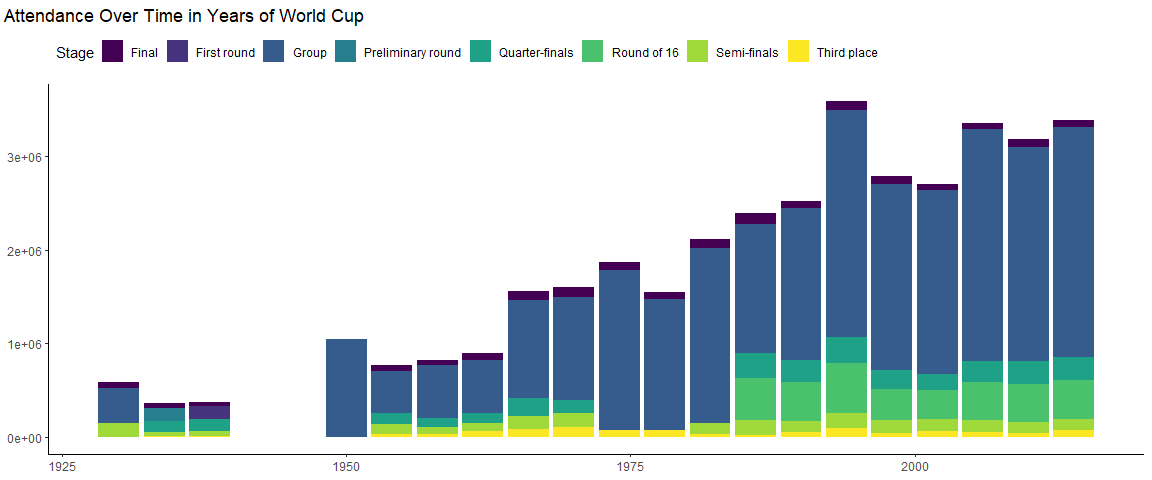
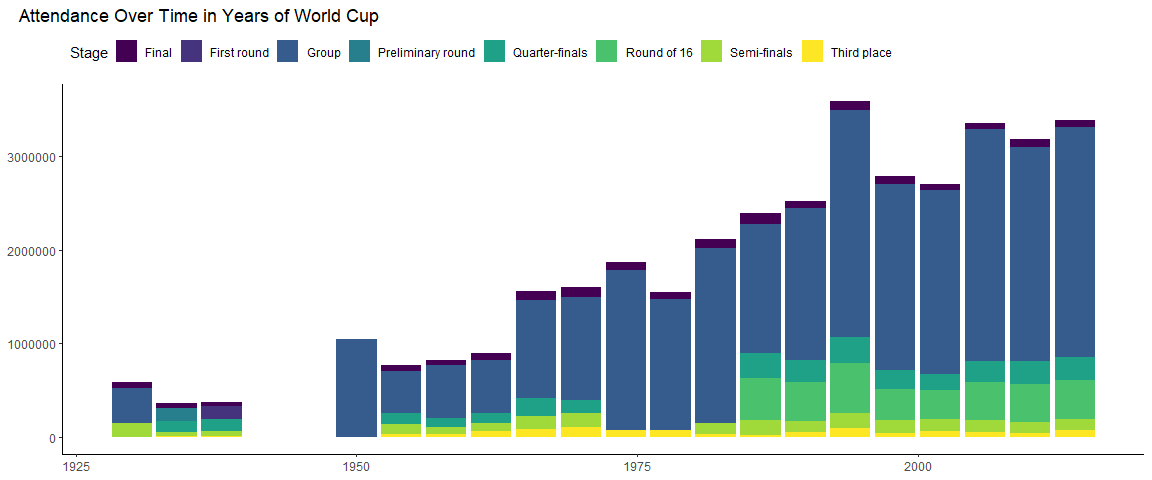
revised project 1

diff --git a/project-01/Nguyen_project_01.html b/project-01/Nguyen_project_01.html
@@ -1734,7 +1734,8 @@ not theirs and both sides of the field should be equal.</p>
[1 lines of base64/hex data omitted]
 <p>Most of the finals ended normally without needing extra time or
 penalties to determine a winner.</p>
-<pre class="r"><code>wc %&gt;% 
+<pre class="r"><code>options(scipen = 999) # remove scientific notation from y axis
+wc %&gt;% 
   mutate(Stage = case_when(str_detect(wc$Stage, &quot;Group&quot;) ~ &quot;Group&quot;, # merge all the different groups into just one
                         str_detect(wc$Stage, &quot;third&quot;) ~ &quot;Third place&quot;, # third place match was written in multiple ways
                         T ~ as.character(wc$Stage))
@@ -1748,12 +1749,13 @@ penalties to determine a winner.</p>
           legend.position = &quot;top&quot;, legend.justification = &quot;left&quot;) +
     guides(fill=guide_legend(nrow = 1, byrow = T))</code></pre>
 <pre><code>## Warning: Removed 1 rows containing missing values (`position_stack()`).</code></pre>
[1 lines of base64/hex data omitted]
-<p>More people watched the World Cup over time. The gap could have been
-because of World War 2, 1950 seems to be missing non group data and the
-World Cups before it in general seems to be missing some data. The group
-stage having the most attendance makes sense as it has the most matches
-being played in it.</p>
[1 lines of base64/hex data omitted]
+<p>More people watched the World Cup over time. The gap in the chart was
+because of World War 2 (<a href="https://theculturetrip.com/europe/germany/articles/why-wasnt-there-a-world-cup-in-1942-or-1946/" class="uri">https://theculturetrip.com/europe/germany/articles/why-wasnt-there-a-world-cup-in-1942-or-1946/</a>),
+1950 seems to be missing non group data and the World Cups before it in
+general seems to be missing some data. The group stage having the most
+attendance makes sense as it has the most matches being played in
+it.</p>
 <hr />
 </div>
 <div id="report" class="section level1">
@@ -1782,30 +1784,31 @@ that variable I made into factor to make sure it worked properly in the
 graph. To make the graph I used geom_bar with the side variable. I made
 a number of changes to the way it looked. By making a descriptive title,
 I was able to remove the x axis completely and the title for the y axis.
-The title had the sides colored using the ggtext package to match the
-fill of the bars in the graph. I choose to this as it is better to make
-graphs simpler and I wanted to apply what I learned from the discussion
-video regarding the title. With this graph, I found out that the home
-side was usually the one that won, this is unusual as both sides of the
-field should be equal and the home side usually does not have the home
-team for the country.</p>
+The title had the sides colored using the <code>ggtext</code> package to
+match the fill of the bars in the graph. I choose to this as it is
+better to make graphs simpler and I wanted to apply what I learned from
+the discussion video regarding the title. With this graph, I found out
+that the home side was usually the one that won, this is unusual as both
+sides of the field should be equal and the home side usually does not
+have the home team for the country.</p>
 <p>Preparing for the win conditions of the final match was relatively
 simple, but it was annoying that it was necessary. The final matches can
 have a win with normal time, extra time, or penalties. If a match ended
 in normal time, the win condition was NA, so I changed it to Normal, so
 it would look better for the graph. For matches that ended in extra time
 or went to a penalty shootout, the win condition would say the winning
-countries name in the wind condition, so I had to use str_detect with
-ifelse to make it so if the win condition had extra time or penalty,
-then the win condition would be set to that. A lollipop graph was made
-for this. I grouped by win condition and counted the rows for each win
-condition as n then passed it to ggplot to use geom_pointrange with the
-x as the win condition reordered from greatest to least and y as
-n. Similarly to the previous graph, I removed the x axis and the title
-for the y axis, as I believe my title is descriptive enough. And I
-removed the legend title for this graph. Looking at the graph, I saw
-that most final matches ended normally without extra time or penalties,
-and a penalty shootout was the most uncommon win condition.</p>
+countries name in the wind condition, so I had to use
+<code>str_detect</code> with <code>ifelse</code> to make it so if the
+win condition had extra time or penalty, then the win condition would be
+set to that. A lollipop graph was made for this. I grouped by win
+condition and counted the rows for each win condition as n then passed
+it to ggplot to use <code>geom_pointrange</code> with the x as the win
+condition reordered from greatest to least and y as n. Similarly to the
+previous graph, I removed the x axis and the title for the y axis, as I
+believe my title is descriptive enough. And I removed the legend title
+for this graph. Looking at the graph, I saw that most final matches
+ended normally without extra time or penalties, and a penalty shootout
+was the most uncommon win condition.</p>
 <p>My last graph for comparing attendance over time was originally
 intended to be a scatterplot, but after coloring the points by stage, it
 was extremely complicated and hard to read. So, I had to switch to a bar
@@ -1813,24 +1816,24 @@ graph. Before making the graph, I merged all the different groups into
 just one group for the graph, and fixed the third place match being
 called different ways. My graph has the x as year, y as attendance, and
 the fill as stage. This graph has the x and y axis titles removes to
-helped simplify it and the fig.width of it was increased to help make it
-more readable. The graph shows an increase in attendance over time and
-the group stage having the highest attendance. This makes sense as there
-is more people and the group stage has the most matches. There is a gap
-in the data that could be due to World War 2, and some years are missing
-some stages.</p>
+helped simplify it and the <code>fig.width</code> of it was increased to
+help make it more readable. The graph shows an increase in attendance
+over time and the group stage having the highest attendance. This makes
+sense as there is more people and the group stage has the most matches.
+There is a gap in the data that was due to World War 2, and some years
+are missing some stages.</p>
 <p>Overall, I tried to make simple data visualizations as they are
 easier to understand and avoided pie charts. I focused mainly on the
 layout of my data visualizations and other than for my first graph, I
-used the viridis colors through scale_color_viridis_d and
-scale_fill_viridis_d, they help make the different categories in a
-variable distinct, which is important as they are not ordered. When a
-unodered categorical variable was graphed, I arranged them in either
-ascending or descending order. My titles were always in the top left of
-the graph as that is where people start reading for English, and I
-removed the axis and legend titles when I believed they were
-unnecessary. All of the design choices I made, I think help make my data
-visualizations more understandable.</p>
+used the viridis colors through <code>scale_color_viridis_d</code> and
+<code>scale_fill_viridis_d</code>, they help make the different
+categories in a variable distinct, which is important as they are not
+ordered. When a unodered categorical variable was graphed, I arranged
+them in either ascending or descending order. My titles were always in
+the top left of the graph as that is where people start reading for
+English, and I removed the axis and legend titles when I believed they
+were unnecessary. All of the design choices I made, I think help make my
+data visualizations more understandable.</p>
 </div>
 
 

diff --git a/project-01/Nguyen_project_01.md b/project-01/Nguyen_project_01.md
@@ -342,6 +342,7 @@ Most of the finals ended normally without needing extra time or penalties to det
 
 
 ```r
+options(scipen = 999) # remove scientific notation from y axis
 wc %>% 
   mutate(Stage = case_when(str_detect(wc$Stage, "Group") ~ "Group", # merge all the different groups into just one
                         str_detect(wc$Stage, "third") ~ "Third place", # third place match was written in multiple ways
@@ -363,7 +364,7 @@ wc %>%
 
 ![](Nguyen_project_01_files/figure-html/unnamed-chunk-17-1.png)<!-- -->
 
-More people watched the World Cup over time. The gap could have been because of World War 2, 1950 seems to be missing non group data and the World Cups before it in general seems to be missing some data. The group stage having the most attendance makes sense as it has the most matches being played in it.
+More people watched the World Cup over time. The gap in the chart was because of World War 2 (https://theculturetrip.com/europe/germany/articles/why-wasnt-there-a-world-cup-in-1942-or-1946/), 1950 seems to be missing non group data and the World Cups before it in general seems to be missing some data. The group stage having the most attendance makes sense as it has the most matches being played in it.
 
 ------------------------------------------------------------------------
 
@@ -371,10 +372,10 @@ More people watched the World Cup over time. The gap could have been because of 
 
 After looking through the dataset choices, I choose to do the World Cup Matches as I like to watch them. I originally intended to create a bar, lollipop and scatterplot as my three data visualizations, but due to the way my target variables looked, I had to switch from a scatterplot to another bar graph. First, before I worked on making the data visualizations, I checked the data for problems and what I wanted to create my graphs on. I choose to do a graph on if the home or away team won for the final match, a graph for how the victor of the final match was determined, and how the attendance of the matches changed over time; I used the finals as I think it is more interesting, and there are no draws. To do this, I had to remove the spaces in variable names for easier use, remove a large number of duplicate rows, remove a row that had NA for all its values, changed the stages variable to factors, and I created a subset of just the final matches.
 
-For my home vs away graph, I made a new variable called side to hold the side that won and calculated it by subtracting the away goals from the home goals. If the goals were above 0 then the home team won and if it is less than 0, the away team won. This worked for all but two matches, where the victor was determined through penalties, so I manually added the winner for those matches. After that, I converted that variable I made into factor to make sure it worked properly in the graph. To make the graph I used geom_bar with the side variable. I made a number of changes to the way it looked. By making a descriptive title, I was able to remove the x axis completely and the title for the y axis. The title had the sides colored using the ggtext package to match the fill of the bars in the graph. I choose to this as it is better to make graphs simpler and I wanted to apply what I learned from the discussion video regarding the title. With this graph, I found out that the home side was usually the one that won, this is unusual as both sides of the field should be equal and the home side usually does not have the home team for the country.
+For my home vs away graph, I made a new variable called side to hold the side that won and calculated it by subtracting the away goals from the home goals. If the goals were above 0 then the home team won and if it is less than 0, the away team won. This worked for all but two matches, where the victor was determined through penalties, so I manually added the winner for those matches. After that, I converted that variable I made into factor to make sure it worked properly in the graph. To make the graph I used geom_bar with the side variable. I made a number of changes to the way it looked. By making a descriptive title, I was able to remove the x axis completely and the title for the y axis. The title had the sides colored using the `ggtext` package to match the fill of the bars in the graph. I choose to this as it is better to make graphs simpler and I wanted to apply what I learned from the discussion video regarding the title. With this graph, I found out that the home side was usually the one that won, this is unusual as both sides of the field should be equal and the home side usually does not have the home team for the country.
 
-Preparing for the win conditions of the final match was relatively simple, but it was annoying that it was necessary. The final matches can have a win with normal time, extra time, or penalties. If a match ended in normal time, the win condition was NA, so I changed it to Normal, so it would look better for the graph. For matches that ended in extra time or went to a penalty shootout, the win condition would say the winning countries name in the wind condition, so I had to use str_detect with ifelse to make it so if the win condition had extra time or penalty, then the win condition would be set to that. A lollipop graph was made for this. I grouped by win condition and counted the rows for each win condition as n then passed it to ggplot to use geom_pointrange with the x as the win condition reordered from greatest to least and y as n. Similarly to the previous graph, I removed the x axis and the title for the y axis, as I believe my title is descriptive enough. And I removed the legend title for this graph. Looking at the graph, I saw that most final matches ended normally without extra time or penalties, and a penalty shootout was the most uncommon win condition.
+Preparing for the win conditions of the final match was relatively simple, but it was annoying that it was necessary. The final matches can have a win with normal time, extra time, or penalties. If a match ended in normal time, the win condition was NA, so I changed it to Normal, so it would look better for the graph. For matches that ended in extra time or went to a penalty shootout, the win condition would say the winning countries name in the wind condition, so I had to use `str_detect` with `ifelse` to make it so if the win condition had extra time or penalty, then the win condition would be set to that. A lollipop graph was made for this. I grouped by win condition and counted the rows for each win condition as n then passed it to ggplot to use `geom_pointrange` with the x as the win condition reordered from greatest to least and y as n. Similarly to the previous graph, I removed the x axis and the title for the y axis, as I believe my title is descriptive enough. And I removed the legend title for this graph. Looking at the graph, I saw that most final matches ended normally without extra time or penalties, and a penalty shootout was the most uncommon win condition.
 
-My last graph for comparing attendance over time was originally intended to be a scatterplot, but after coloring the points by stage, it was extremely complicated and hard to read. So, I had to switch to a bar graph. Before making the graph, I merged all the different groups into just one group for the graph, and fixed the third place match being called different ways. My graph has the x as year, y as attendance, and the fill as stage. This graph has the x and y axis titles removes to helped simplify it and the fig.width of it was increased to help make it more readable. The graph shows an increase in attendance over time and the group stage having the highest attendance. This makes sense as there is more people and the group stage has the most matches. There is a gap in the data that could be due to World War 2, and some years are missing some stages.
+My last graph for comparing attendance over time was originally intended to be a scatterplot, but after coloring the points by stage, it was extremely complicated and hard to read. So, I had to switch to a bar graph. Before making the graph, I merged all the different groups into just one group for the graph, and fixed the third place match being called different ways. My graph has the x as year, y as attendance, and the fill as stage. This graph has the x and y axis titles removes to helped simplify it and the `fig.width` of it was increased to help make it more readable. The graph shows an increase in attendance over time and the group stage having the highest attendance. This makes sense as there is more people and the group stage has the most matches. There is a gap in the data that was due to World War 2, and some years are missing some stages.
 
-Overall, I tried to make simple data visualizations as they are easier to understand and avoided pie charts. I focused mainly on the layout of my data visualizations and other than for my first graph, I used the viridis colors through scale_color_viridis_d and scale_fill_viridis_d, they help make the different categories in a variable distinct, which is important as they are not ordered. When a unodered categorical variable was graphed, I arranged them in either ascending or descending order. My titles were always in the top left of the graph as that is where people start reading for English, and I removed the axis and legend titles when I believed they were unnecessary. All of the design choices I made, I think help make my data visualizations more understandable.
+Overall, I tried to make simple data visualizations as they are easier to understand and avoided pie charts. I focused mainly on the layout of my data visualizations and other than for my first graph, I used the viridis colors through `scale_color_viridis_d` and `scale_fill_viridis_d`, they help make the different categories in a variable distinct, which is important as they are not ordered. When a unodered categorical variable was graphed, I arranged them in either ascending or descending order. My titles were always in the top left of the graph as that is where people start reading for English, and I removed the axis and legend titles when I believed they were unnecessary. All of the design choices I made, I think help make my data visualizations more understandable.
